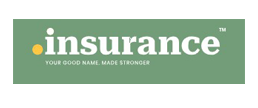
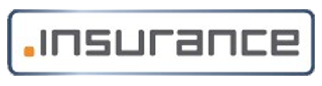
update

diff --git a/index.html b/index.html
@@ -288,7 +288,7 @@
                 <img src="./assets/img/domain/dotin.png" alt="" srcset="">
               </figure>
                <hr>
-              <span class="domain-title">.IN</span>
+              <!-- <span class="domain-title">.IN</span> -->
               <p><span> &#8377;9 </span> <span>&#8377; 599/month</span></p>
             </a>
           </div>
@@ -298,7 +298,7 @@
                 <img src="./assets/img/domain/dotcom.png" alt="" srcset="">
               </figure>
                <hr>
-              <span class="domain-title">.COM</span>
+              <!-- <span class="domain-title">.COM</span> -->
               <p><span> &#8377;999 </span> <span>&#8377; 1299/month</span></p>
 
             </a> 
@@ -306,20 +306,20 @@
           <div class="domain-cards">
             <a href="">
                <figure>
-                <img src="./assets/img/domain/bank.png" alt="" srcset="">
+                <img src="./assets/img/domain/_bank.png" alt="" srcset="">
               </figure>
                <hr>
-              <span class="domain-title">.BANK</span>
+              <!-- <span class="domain-title">.BANK</span> -->
               <p><span> &#8377;78,000</span> <span>&#8377; 85,000/month</span></p>
             </a>
           </div>
           <div class="domain-cards">
             <a href="">
                <figure>
-                <img src="./assets/img/domain/_insurance.png" alt="" srcset="">
+                <img src="./assets/img/domain/insurance.png" alt="" srcset="">
               </figure>
               <hr>
-              <span class="domain-title">.INSURANCE</span>
+              <!-- <span class="domain-title">.INSURANCE</span> -->
               <p><span> &#8377;599 </span> <span>&#8377; 899/month</span></p>
             </a>
           </div>
@@ -329,7 +329,7 @@
                 <img src="./assets/img/domain/inc.png" alt="" srcset="">
               </figure>
                <hr>
-              <span class="domain-title">.inc</span>
+              <!-- <span class="domain-title">.inc</span> -->
               <p><span> &#8377;599 </span> <span>&#8377; 999/month</span></p>
             </a>
           </div>

diff --git a/assets/css/main.css b/assets/css/main.css
@@ -2329,10 +2329,14 @@ section,
   padding: 4px 10px;
   border-radius: 8px;
   transition: 0.3s;
-  width: 100%
+  width: 100%;
+  text-align: center;
+}
+.domain-cards figure{
+  height: 3.5rem;
 }
 .domain-cards figure img{
-  width:80%;
+  width:90%;
   height: auto;
   border-radius:5px;
   margin-bottom: -20px;
@@ -2369,10 +2373,11 @@ section,
 }
 
 .domain-cards p span:not(:last-child) {
-  font-size: 20px;
+  font-size: 2.4rem;
   margin-right: 10px;
   color: orangered;
-  font-weight: 450;
+  display: block;
+  font-weight: 600;
 }
 
 
